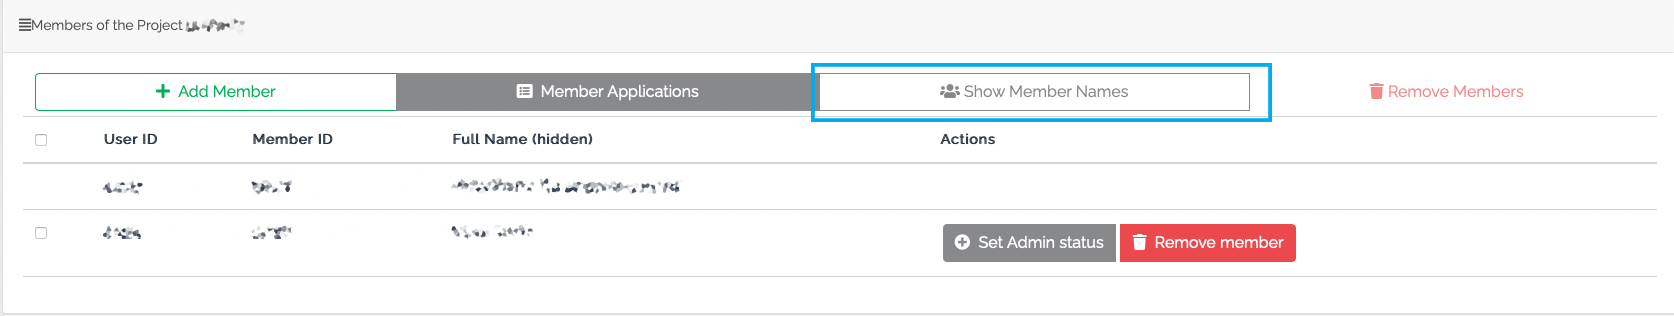
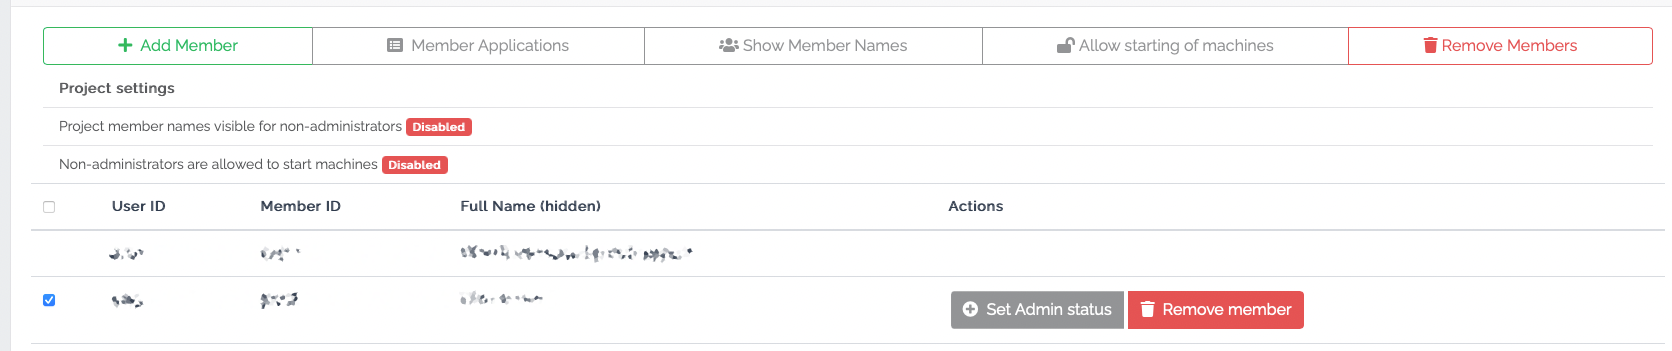
feat(VMs): Added information of starting prevention by admins

diff --git a/wiki/portal/project_overview.md b/wiki/portal/project_overview.md
@@ -33,7 +33,7 @@ more information" all further project information and currently requested change
 
 ### Member management
 
-In the area "Members of the Project" all members of the project can be viewed. Project administrators are also able to
+In the area "Members of the Project" all members of the project can be viewed if granted by the administrators. Project administrators are also able to
 
 * Invite further members
 
@@ -42,6 +42,10 @@ In the area "Members of the Project" all members of the project can be viewed. P
 * Remove existing members from the project
 
 * Promote members to administrators or revoke their status
+
+* Adjust the visiblity of member names
+
+* Prevent the starting of machines by non-administrator
 
 Members can be easily be added to the project. If desired users already have a de.NBI Cloud account, they can easily be
 added using the search function under "Add member". Otherwise you will find an invitation link in the same section,
@@ -52,6 +56,9 @@ informed by mail. Adding the people to the project can then be confirmed or decl
 By default, only admins of a project see all project members. This option can be disabled and re-enabled by admins using
 the "Show/Hide Member Names" button (as seen below). If the option is enabled, this is also indicated by a "(hidden)"
 next to "Full Name" in the header of the member table.
+
+Also by default, all project members are able to start machines as soon as the project resources are available.
+Administators of SimpleVM projects are able to prevent machines from being started by non-administrators or to allow this again after the restriction has been made. The "Allow/Prevent starting of machines" button can be used for this purpose.
 
 ![member_overview](img/show_hide_members.png)
 

diff --git a/wiki/simple_vm/new_instance.md b/wiki/simple_vm/new_instance.md
@@ -3,6 +3,8 @@
 On this page we guide you through the options you have when starting a virtual machine.  
 If you are a member of a simple vm project you can start a virtual machine at the "New Instance" tab.  
 You may need to reload the website if you can not see the tab.
+Please keep in mind that there is a possibility that you will be notified on this page that you are not allowed to start a machine.
+In this case, the administrators of the respective project have restricted the starting of machines for non-administrators.
 
 ## Mandatory configuration
 ![overview_one](./img/new_instance/new_instance_overview_one.png)
